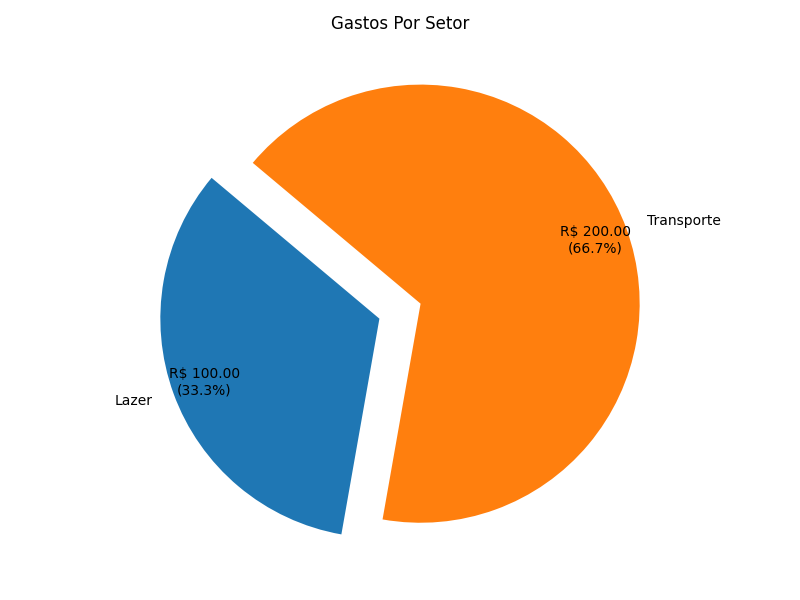
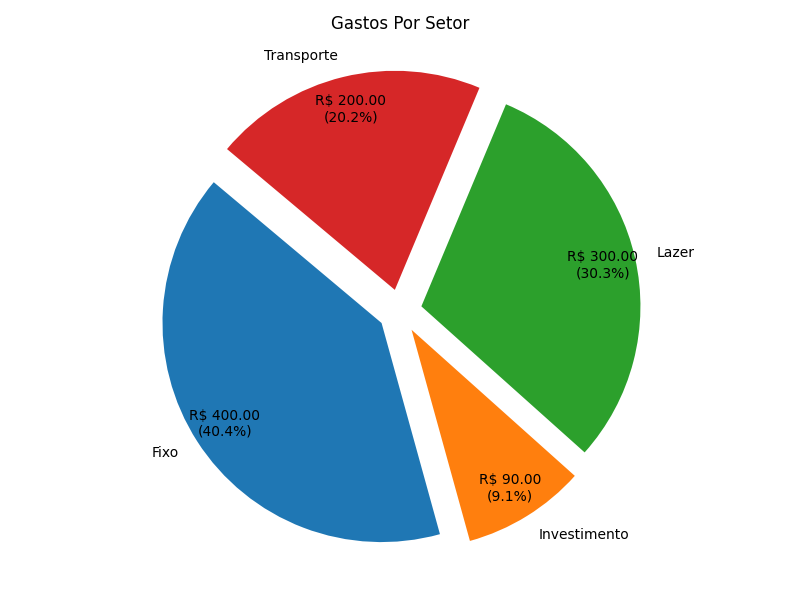
Projeto bem encaminhado, sem funcionalidades novas, porém com varias questoes arrumadas

diff --git a/bot_telegram.py b/bot_telegram.py
@@ -6,22 +6,52 @@ bot=telebot.TeleBot("8594534195:AAESzmzrHWaG7Yb-s54wqsclK3iGPYExuGk")
 sistema=ControleFinanceiro()
 
 
-@bot.message_handler(commands=['start','help'])
+@bot.message_handler(commands=['start', 'help'])
 def enviar_boas_vindas(message):
-    bot.reply_to(message,"💰 *Sistema Financeiro Ativo!*\n\n"
-                          "Para salvar use: `Valor Descrição Categoria`\n"
-                          "Ex: `100 pizza lazer`\n\n"
-                          "Comandos:\n/resumo - Ver gráficos", 
-                          parse_mode='Markdown')
+    manual = (
+        "💰 *Gestor Financeiro Ativo!*\n\n"
+        "✨ *Como registrar:* `Valor Descrição Categoria`\n"
+        "💡 _Dica: 3 palavras = Pago | 4 palavras ou mais = Pendente_\n\n"
+        "📊 *Relatórios Visual:* \n"
+        "/setor - Gastos por categoria (Pizza)\n"
+        "/gerais - Status de Pagamento (Barras)\n"
+        "/balanco - Lucro vs Prejuízo\n\n"
+        "🛠 *Utilidades:*\n"
+        "/buscar `termo` - Filtra por descrição\n"
+        "/excluir - Remove o último lançamento\n"
+        "/help - Mostra esta mensagem"
+    )
+    bot.reply_to(message, manual, parse_mode='Markdown')
     
 
-@bot.message_handler(commands=['resumo'])
-def mostrar_resumo(message):
+@bot.message_handler(commands=['setor'])
+def resumo_setor(message):
     bot.send_message(message.chat.id, "📊 Gerando seus relatórios, aguarde...")
     sistema.grafico_setor_telegram()
     with open ('static/pizza.png','rb') as foto:
-        bot.send_photo(message.chat.id, foto, caption='Gastos por Categoria')
+        bot.send_photo(message.chat.id, foto, caption='💲Gastos por Categoria')
     bot.send_message(message.chat.id, sistema.historico_contas(), parse_mode='Markdown')
+
+
+@bot.message_handler(commands=['gerais'])
+def resumo_gerais(message):
+    bot.send_message(message.chat.id, "📊 Gerando seus relatórios, aguarde...")
+    sistema.grafico_gerais_telegram()
+    with open ('static/gerais.png','rb') as foto:
+        bot.send_photo(message.chat.id, foto, caption='💲Gastos Pendentes/Pagos')
+    bot.send_message(message.chat.id, sistema.historico_contas(), parse_mode='Markdown')
+
+
+
+
+@bot.message_handler(commands=['balanço','balanco'])
+def balanco_mensal(message):
+    bot.send_message(message.chat.id, "📊 Gerando seus relatórios, aguarde...")
+    sistema.grafico_lucro_telegram()
+    with open ('static/lucro.png','rb') as foto:
+        bot.send_photo(message.chat.id, foto, caption='💲Balanço Mensal')
+    bot.send_message(message.chat.id, sistema.historico_contas(), parse_mode='Markdown')
+
 
 
 @bot.message_handler(commands=['buscar'])
@@ -44,13 +74,14 @@ def excluir(message):
 def adicionar_gasto(message):
     divisor = message.text.split()
     
-    if len(divisor) == 3:
+    if len(divisor) >= 3:
         try:
             valor_limpo = divisor[0].replace(',', '.')
             valor = float(valor_limpo)
             desc = divisor[1]
             cat = divisor[2].capitalize()
-            res = sistema.adicionar_lancamento_telegram(valor, desc, cat)
+            status="Pago" if len(divisor) == 3 else "Pendente"
+            res = sistema.adicionar_lancamento_telegram(valor, desc, cat,status)
             bot.reply_to(message, res)
             
         except ValueError:

diff --git a/index.py b/index.py
@@ -16,6 +16,8 @@ class ControleFinanceiro:
             "Entradas": ['Pagamentos', 'Presentes', 'Rendimentos']
         }
         self.df = self._criar_carregar()
+        if not os.path.exists('static'):
+            os.makedirs('static')
 
     def _criar_carregar(self):
         if os.path.exists(self.arquivo):
@@ -246,8 +248,11 @@ class ControleFinanceiro:
         self._formatar()
         return ("✅ *Último lançamento removido com sucesso!*")
 
-    def adicionar_lancamento_telegram (self,valor,descricao,categoria):
-        tipo = 'Entrada' if categoria in self.categorias ['Entradas'] else 'Saida'
+    def adicionar_lancamento_telegram (self,valor,descricao,categoria,status='Pago'):
+        if categoria not in self.categorias['Entradas'] and categoria not in self.categorias['Saidas']:
+            return f"Ops... a categoria '{categoria}' não existe.\nTente essas:\n🟩Entradas: {', '.join(self.categorias['Entradas'])}.\n🟥Saidas: {', '.join(self.categorias['Saidas'])}."
+        else: 
+            tipo="Entrada" if categoria in self.categorias['Entradas'] else "Saida"
         data= datetime.now().strftime("%Y-%m-%d")
         nova_linha = {
             'Tipo': tipo,
@@ -255,7 +260,7 @@ class ControleFinanceiro:
             'Categoria': categoria,
             'Valor': float(valor),
             'Vencimento': data,
-            'Status': 'Pago' 
+            'Status': status 
         }
         self.salvar_excel(nova_linha)
         return f"✅ {tipo} de R$ {valor} em '{descricao}' salva!"
@@ -264,7 +269,7 @@ class ControleFinanceiro:
     def grafico_lucro_telegram(self):
         erro=self._verificar_df()
         if erro:
-            return print(erro)
+            return erro
         soma_entrada=self.df[self.df['Tipo'] == 'Entrada']['Valor'].sum()
         soma_saida=self.df[self.df['Tipo'] == 'Saida']['Valor'].sum()
         saldo=soma_entrada-soma_saida
@@ -290,7 +295,7 @@ class ControleFinanceiro:
     def grafico_setor_telegram(self):
         erro = self._verificar_df()
         if erro:
-            return print(erro)
+            return erro
             
         df_saidas = self.df[self.df['Tipo'] == 'Saida'].copy()
         if df_saidas.empty:
@@ -326,7 +331,7 @@ class ControleFinanceiro:
     def grafico_gerais_telegram(self):
         erro=self._verificar_df()
         if erro:
-            return print(erro)
+            return erro
         df_saidas = self.df[self.df['Tipo'] == 'Saida'].copy()
         total_pago = df_saidas[df_saidas['Status'] == 'Pago']['Valor'].sum()
         total_pendente = df_saidas[df_saidas['Status'] == 'Pendente']['Valor'].sum()
